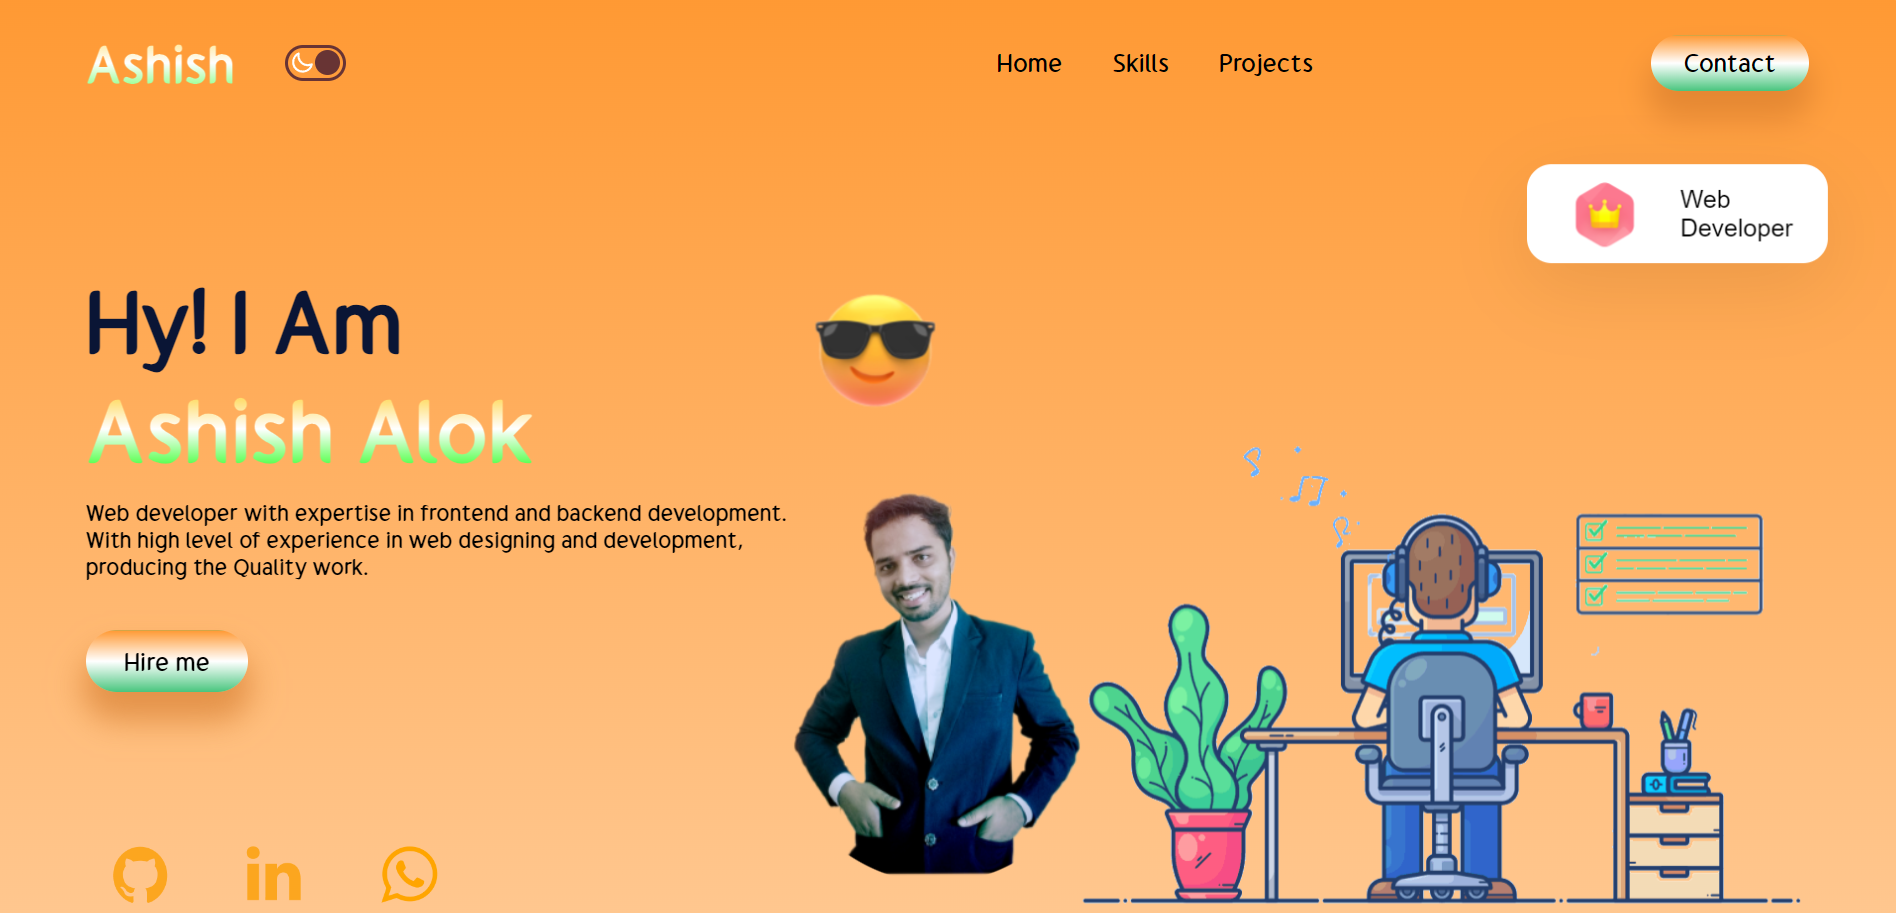
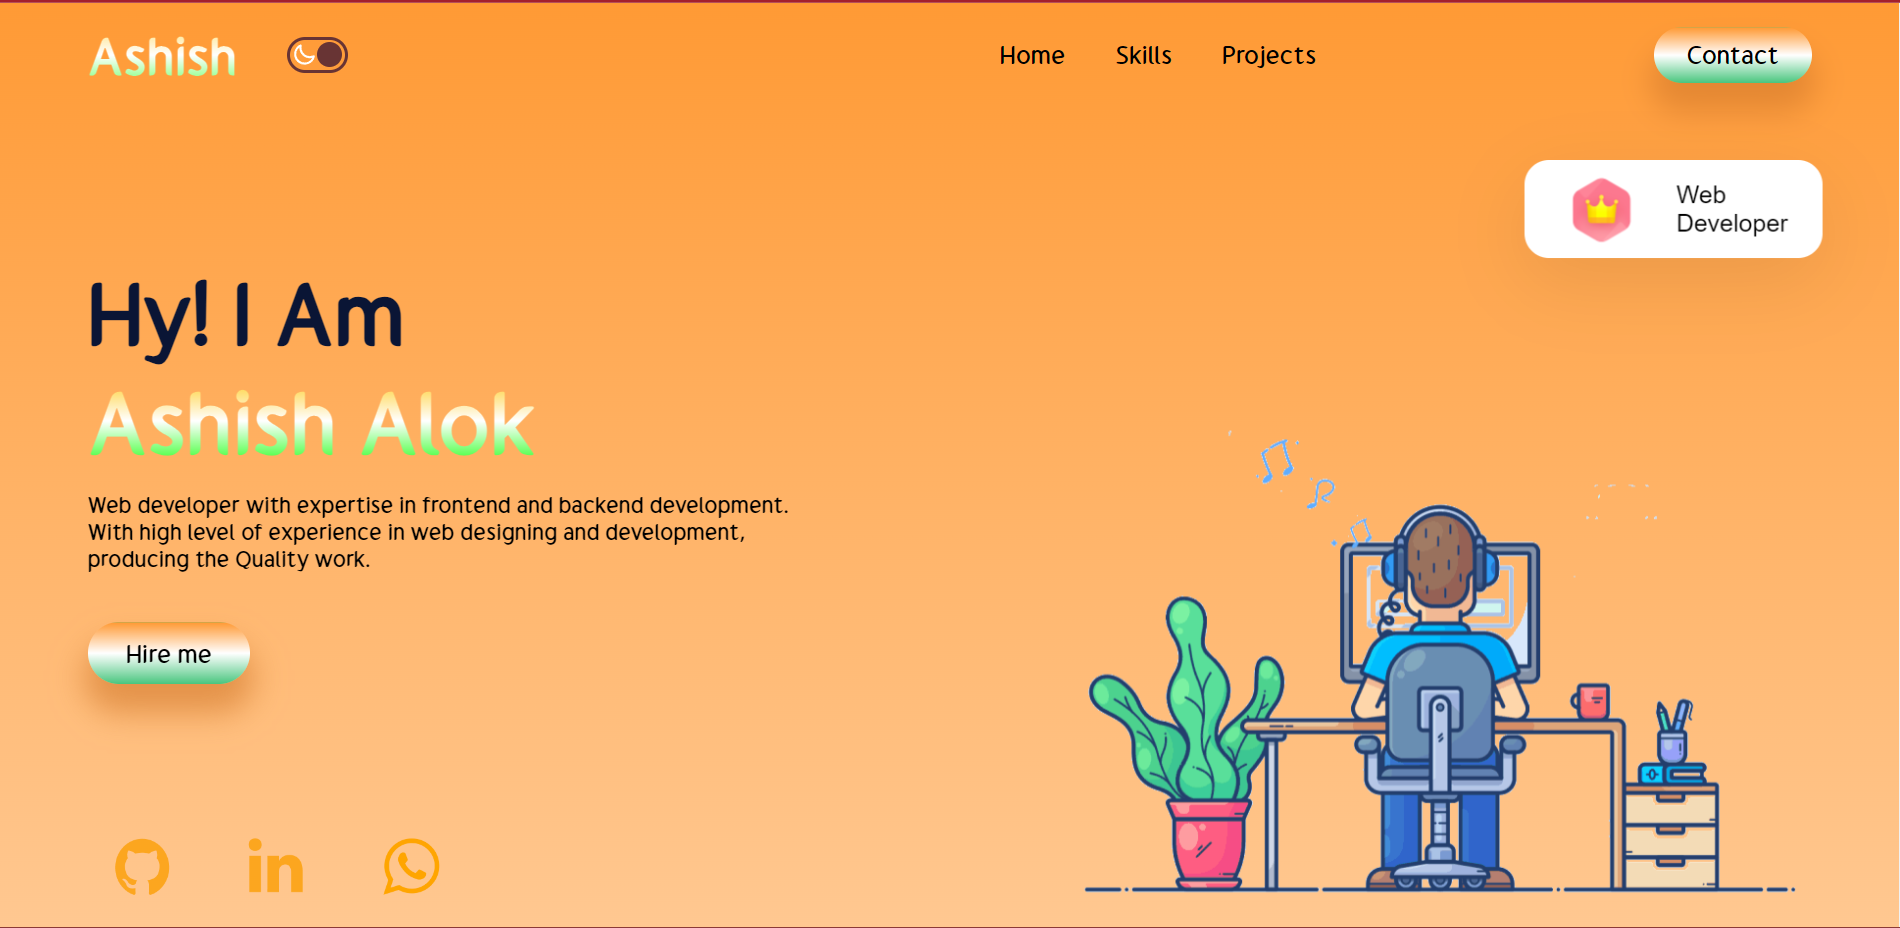
upload new image

diff --git a/src/components/Intro/Intro.css b/src/components/Intro/Intro.css
@@ -165,65 +165,3 @@
   position: relative;
   animation: floatBalloon 4s ease-in-out infinite; /* Floating animation */
 }
-
-
-
-
-
-
-
-/* Style For Mobile View */
-/* Media query for screens with a maximum width of 480px */
-@media screen and (max-width: 480px) {
-  /* Adjust the main container for mobile view */
-  .Intro {
-    margin-top: 2rem;
-    flex-direction: column;
-    gap: 2rem;
-    height: auto;
-    padding: 1rem;
-  }
-
-  /* Adjust the right side container for mobile view */
-  .i-right {
-    flex: none;
-    margin-left: 0;
-  }
-
-  /* Hide the background coding image on mobile */
-  .i-right > :nth-child(1) {
-    display: none;
-  }
-
-  /* Adjust the boy image for mobile view */
-  .i-right > :nth-child(2) {
-    margin-top: -10rem;
-    margin-left: 7rem;
-    transform: scale(0.85);
-  }
-
-  /* Hide the glasses emoji image on mobile */
-  .i-right > :nth-child(3) {
-    display: none;
-  }
-
-  /* Hide the balloon image on mobile */
-  .i-right > :nth-child(4) {
-    display: none;
-  }
-
-  /* Adjust the social icons for mobile view */
-  .i-icons {
-    margin-top: 1rem;
-    display: flex;
-    justify-content: center;
-    gap: 1rem;
-    
-  }
-
-  /* Adjust the size of social icons for mobile view */
-  .i-icons > * {
-    transform: scale(0.8);
-  }
-  
-}

diff --git a/public/index.html b/public/index.html
@@ -2,18 +2,16 @@
 <html lang="en">
 <head>
   <link rel="" href="logo512.png" type="">
-  
   <!-- Set the character encoding for the document -->
   <meta charset="utf-8" />
-  
   <!-- Define the viewport settings for mobile devices -->
   <meta name="viewport" content="width=device-width, initial-scale=1" />
-  
   <!-- Define the theme color for the website -->
   <meta name="theme-color" content="#000000" />
-  
   <!-- Provide a description for the website -->
   <meta name="description" content="Web site created using create-react-app" />
+
+
 
   <!-- Define a custom font using @font-face -->
   <style>
@@ -36,13 +34,17 @@
     }
   </style>
 
+
+
   <!-- Set the title of the webpage -->
   <title>Ashish's portfolio</title>
 </head>
+
+
+
 <body>
   <!-- Display a message for users who have disabled JavaScript -->
   <noscript>You need to enable JavaScript to run this app.</noscript>
-  
   <!-- The root div where the React application will be mounted -->
   <div id="root"></div>
 </body>

diff --git a/src/components/Navbar/Navbar.jsx b/src/components/Navbar/Navbar.jsx
@@ -1,9 +1,9 @@
 import React from "react";
 import Toggle from "../Toggle/Toggle";
-// import to enable css in this page
 import "./Navbar.css";
 // Import to enable smooth scrolling
 import { Link } from "react-scroll";
+
 //create function
 const navbar = () => {
   return (
@@ -15,7 +15,7 @@ const navbar = () => {
       </div>
 
 
-      {/* Right side of the navbar */}
+      {/* Right side of the navbar "n" representing navbar*/}
       <div className="n-right">
         {/* List of navigation items */}
         <div className="n-list">
@@ -31,7 +31,7 @@ const navbar = () => {
             <li>
               <Link to="Skills" spy={true} smooth={true}>
                 Skills
-              </Link>
+              </Link> 
             </li>
             {/* Link to the "Projects" section with smooth scrolling */}
             <li>

diff --git a/src/App.css b/src/App.css
@@ -1,9 +1,10 @@
 /* Root variables for color values */
+/* This color i use entire project */
 :root {
   --yellow: #675316;
   --orange: #1c0c87;
   --black: #0a1535;
-  --gray: #ff0000;
+  --gray: #808080;
   --blueCard: #DDF8FE;
   --purple: rgb(238 210 255);
   --boxShadow: 0px 19px 60px rgb(0 0 0 / 8%);
@@ -11,7 +12,7 @@
   --smboxShadow: -79px 51px 60px rgba(0, 0, 0, 0.08);
 }
 
-/* General styles for the entire app container */
+/* General styles for the ent ire web page */
 .App {
   border-radius: 5px;
   padding: 0.5rem 3.5rem;
@@ -20,7 +21,7 @@
   background: linear-gradient(180deg, #ff9933, #ffffff, #47c57d);
 }
 
-/* Styling for the button */
+/* Styling for the all button */
 .button {
   /* Indian flag color in button */
   background: linear-gradient(180deg,  #ff9933, #ffffff, #47c57d);

diff --git a/src/App.js b/src/App.js
@@ -1,6 +1,5 @@
 // Importing required components and styles
-import Navbar from "./components/Navbar/Navbar";
-// add intro.jsx in this 
+import Navbar from "./components/Navbar/Navbar"; 
 import Intro from "./components/Intro/Intro";
 import Skills from "./components/Skills/Skills";
 import "./App.css";
@@ -9,6 +8,7 @@ import Contact from "./components/Contact/Contact";
 import Footer from "./components/Footer/Footer";
 import { useContext } from "react"; // Importing useContext hook from React
 import { themeContext } from "./Context"; // Importing the themeContext from a custom context
+
 
 // App component function
 function App() {

diff --git a/src/components/Intro/Intro.jsx b/src/components/Intro/Intro.jsx
@@ -1,7 +1,6 @@
 import React, { useContext } from "react";
 import "./Intro.css";
 import Vector2 from "../../img/Vector2.gif";
-import boy from "../../img/boy.png";
 import crown from "../../img/crown.png";
 import FloatinDiv from "../FloatingDiv/FloatingDiv";
 import Github from "../../img/github.png";
@@ -59,8 +58,7 @@ const Intro = () => {
       <div className="i-right">
         {/* Images */}
         <img src={Vector2} alt="" />
-        <img src={boy} alt="" />
-        <img src={glassesimoji} alt="" />
+
 
   
         {/* FloatingDiv web div animation */}

diff --git a/src/Context.js b/src/Context.js
@@ -5,7 +5,7 @@ import { createContext, useEffect, useReducer } from "react";
 export const themeContext = createContext();
 
 // Initial state for the theme
-const initialState = { darkMode: false };
+const initialState = { darkMode: true };
 
 // Theme reducer function that handles state changes
 const themeReducer = (state, action) => {

diff --git a/src/components/Navbar/Navbar.css b/src/components/Navbar/Navbar.css
@@ -31,6 +31,7 @@
 
 
 
+
 /* Styling for the right side of the navbar */
 .n-right {
   flex: 1;
